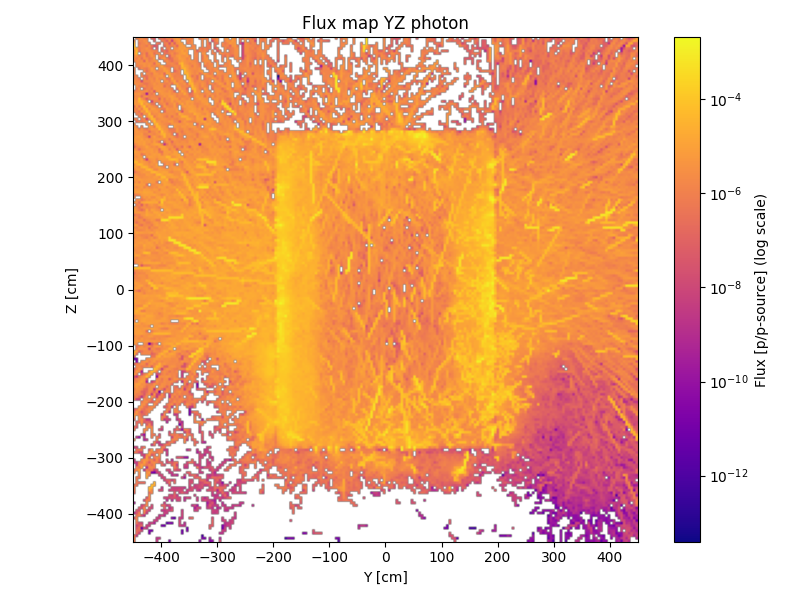
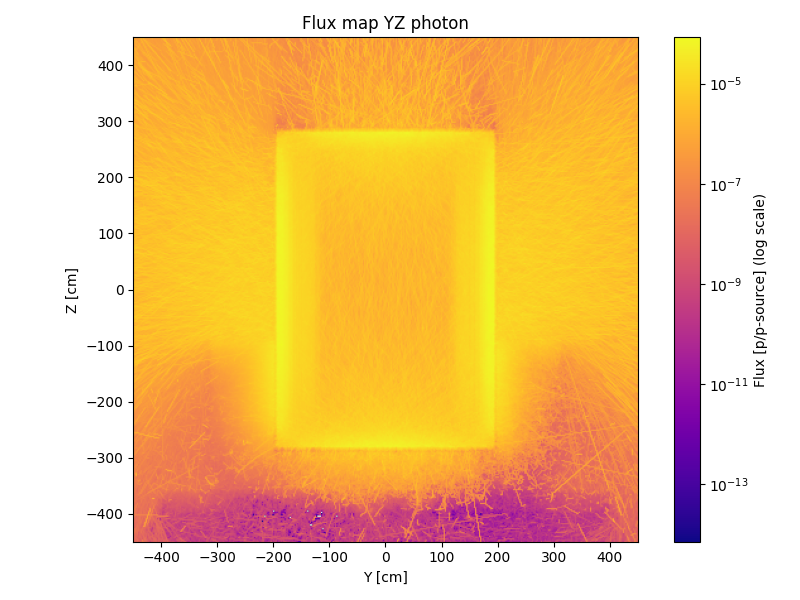
feat:add_mean_path_mat

diff --git a/src/studies/reactor_study/secondary_source/source_using_weight_window/wwg_using/wwg_using.py b/src/studies/reactor_study/secondary_source/source_using_weight_window/wwg_using/wwg_using.py
@@ -32,10 +32,10 @@ settings = openmc.Settings()
 batches_number= 1
 settings.batches = batches_number
 settings.inactive = 0
-settings.particles = 1000000 # 60000000
+settings.particles = 4000000 # 60000000
 settings.source = openmc.FileSource('surface_source.h5')
 settings.photon_transport = True
-settings.max_history_splits = 10_000  
+settings.max_history_splits = 1_000  
 
 ww = openmc.hdf5_to_wws("weight_windows.h5")  
 shape_ww = get_ww_size(weight_windows=ww)
@@ -90,8 +90,8 @@ print(f"Neutron flux tally: {flux_tally_neutron.mean[0][0][0]} particles/cm^2/p-
 flux_tally_photon = statepoint_file.get_tally(name="flux_tally_photon")
 print(f"Photon flux tally: {flux_tally_photon.mean[0][0][0]} particles/cm^2/p-source")
 
-load_mesh_tally(cwd = CWD, statepoint_file = statepoint_file, name_mesh_tally="flux_mesh_neutrons_yz", particule_type="neutron", bin_number=200,
+load_mesh_tally(cwd = CWD, statepoint_file = statepoint_file, name_mesh_tally="flux_mesh_neutrons_yz", particule_type="neutron", bin_number=400,
                 lower_left=(-450.0, -450.0), upper_right=(450.0, 450.0), zoom_x=(-450, 450), zoom_y=(-450, 450), plane="yz", saving_figure=True, plot_error=False)
 
-load_mesh_tally(cwd = CWD, statepoint_file = statepoint_file, name_mesh_tally="flux_mesh_photons_yz", particule_type="photon", bin_number=200,
+load_mesh_tally(cwd = CWD, statepoint_file = statepoint_file, name_mesh_tally="flux_mesh_photons_yz", particule_type="photon", bin_number=400,
                 lower_left=(-450.0, -450.0), upper_right=(450.0, 450.0), zoom_x=(-450, 450), zoom_y=(-450, 450), plane="yz", saving_figure=True, plot_error=False)
